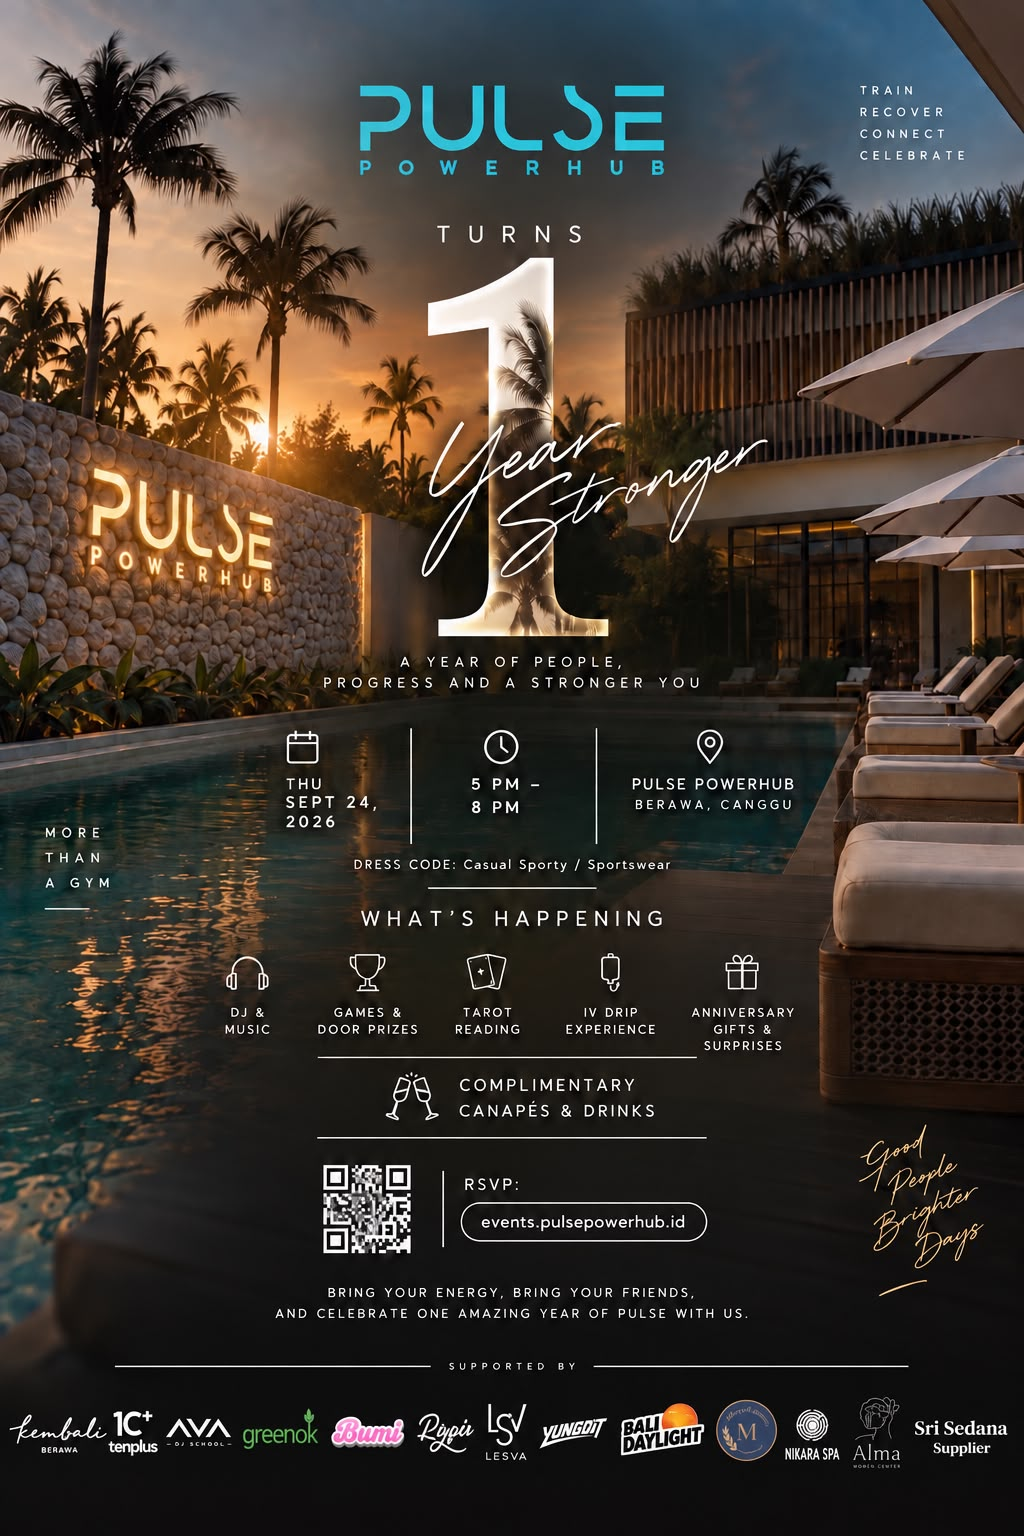
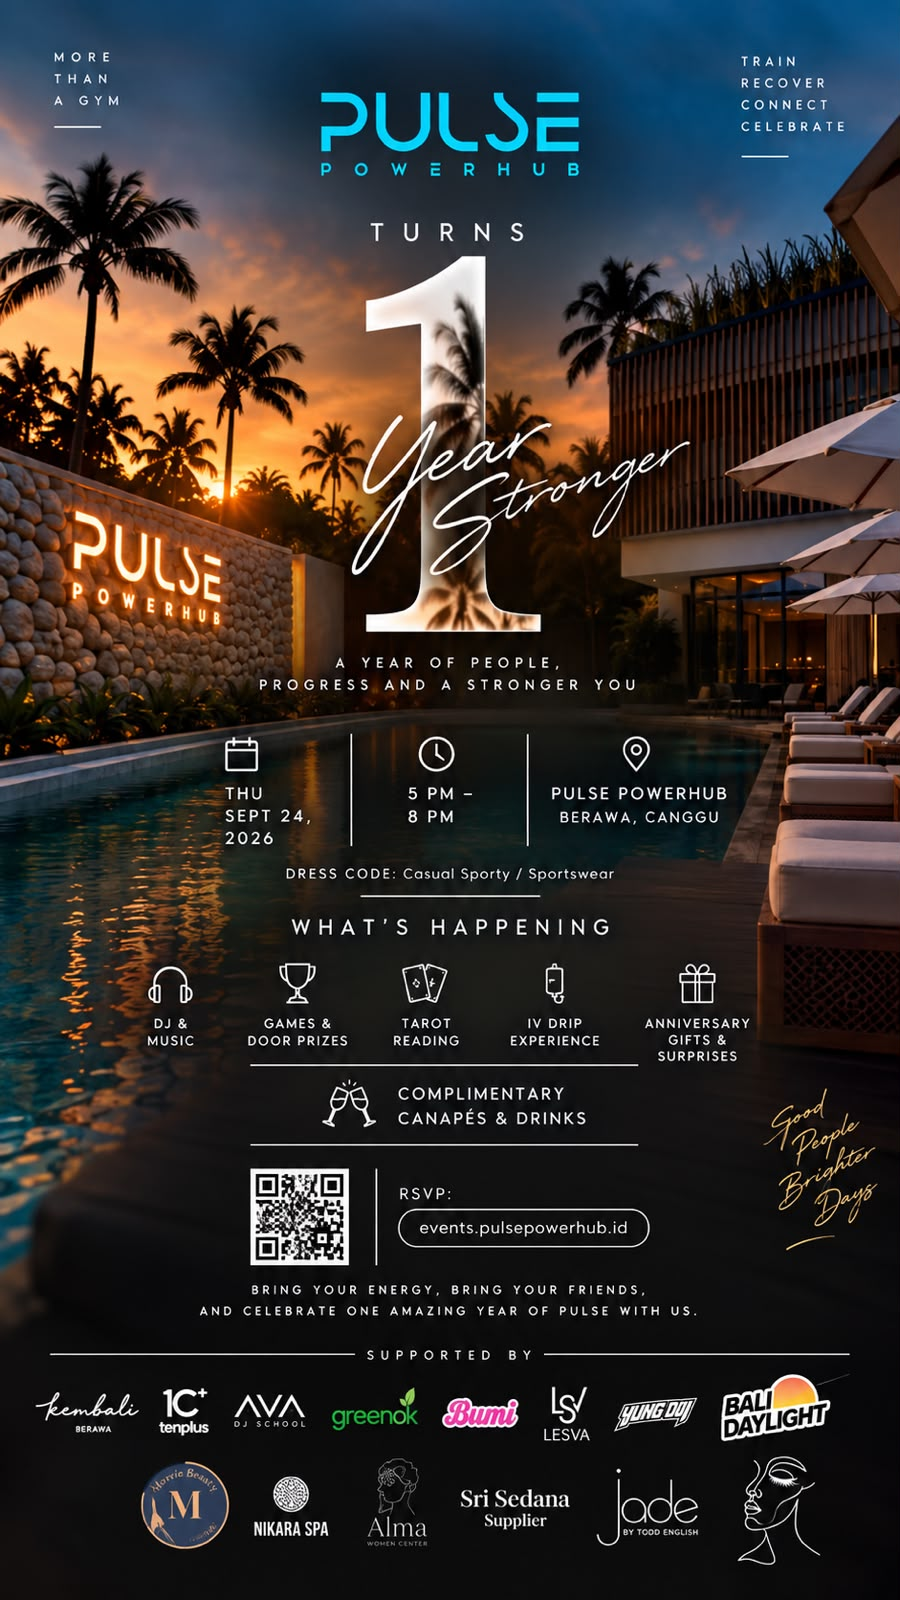
update flyer ke final-maneh.jpg (9:16), sesuaikan rasio, meta OG, dan lebar flyer di desktop
Flyer baru lebih tinggi (900x1600), jadi aspect-ratio dan og:image diubah.
Di desktop lebar flyer+tombol RSVP dibatasi tinggi viewport supaya RSVP
tidak keluar layar di laptop kecil.

diff --git a/index.html b/index.html
@@ -10,8 +10,8 @@
     <meta property="og:title" content="Pulse Powerhub Turns 1" />
     <meta property="og:description" content="September 24, 2026 · 5–8 PM · Berawa, Canggu. Train. Recover. Connect. Celebrate." />
     <meta property="og:image" content="https://events.pulsepowerhub.id/cover.jpg" />
-    <meta property="og:image:width" content="1024" />
-    <meta property="og:image:height" content="1536" />
+    <meta property="og:image:width" content="900" />
+    <meta property="og:image:height" content="1600" />
     <meta property="og:url" content="https://events.pulsepowerhub.id/" />
     <meta property="og:type" content="website" />
     <meta name="twitter:card" content="summary_large_image" />

diff --git a/src/App.vue b/src/App.vue
@@ -527,11 +527,18 @@ function retry () {
 .cover {
   display: block;
   width: 100%;
-  aspect-ratio: 1024 / 1536;
+  aspect-ratio: 900 / 1600;
   object-fit: cover;
   border-radius: 20px;
   margin: 0 0 1.8rem;
   box-shadow: 0 0 40px rgba(79, 221, 229, .12);
+}
+/* The 9:16 flyer is tall; on desktop it sticks beside the intro with the
+   RSVP button under it, so cap the whole block's width by viewport height
+   (image and button stay the same width) — otherwise the button falls below
+   the fold on shorter laptop screens. */
+@media (min-width: 60rem) {
+  .flyer-block { width: min(100%, calc((100vh - 10rem) * 0.5625)); margin-left: auto; margin-right: auto; }
 }
 
 /* --- intro block --- */
